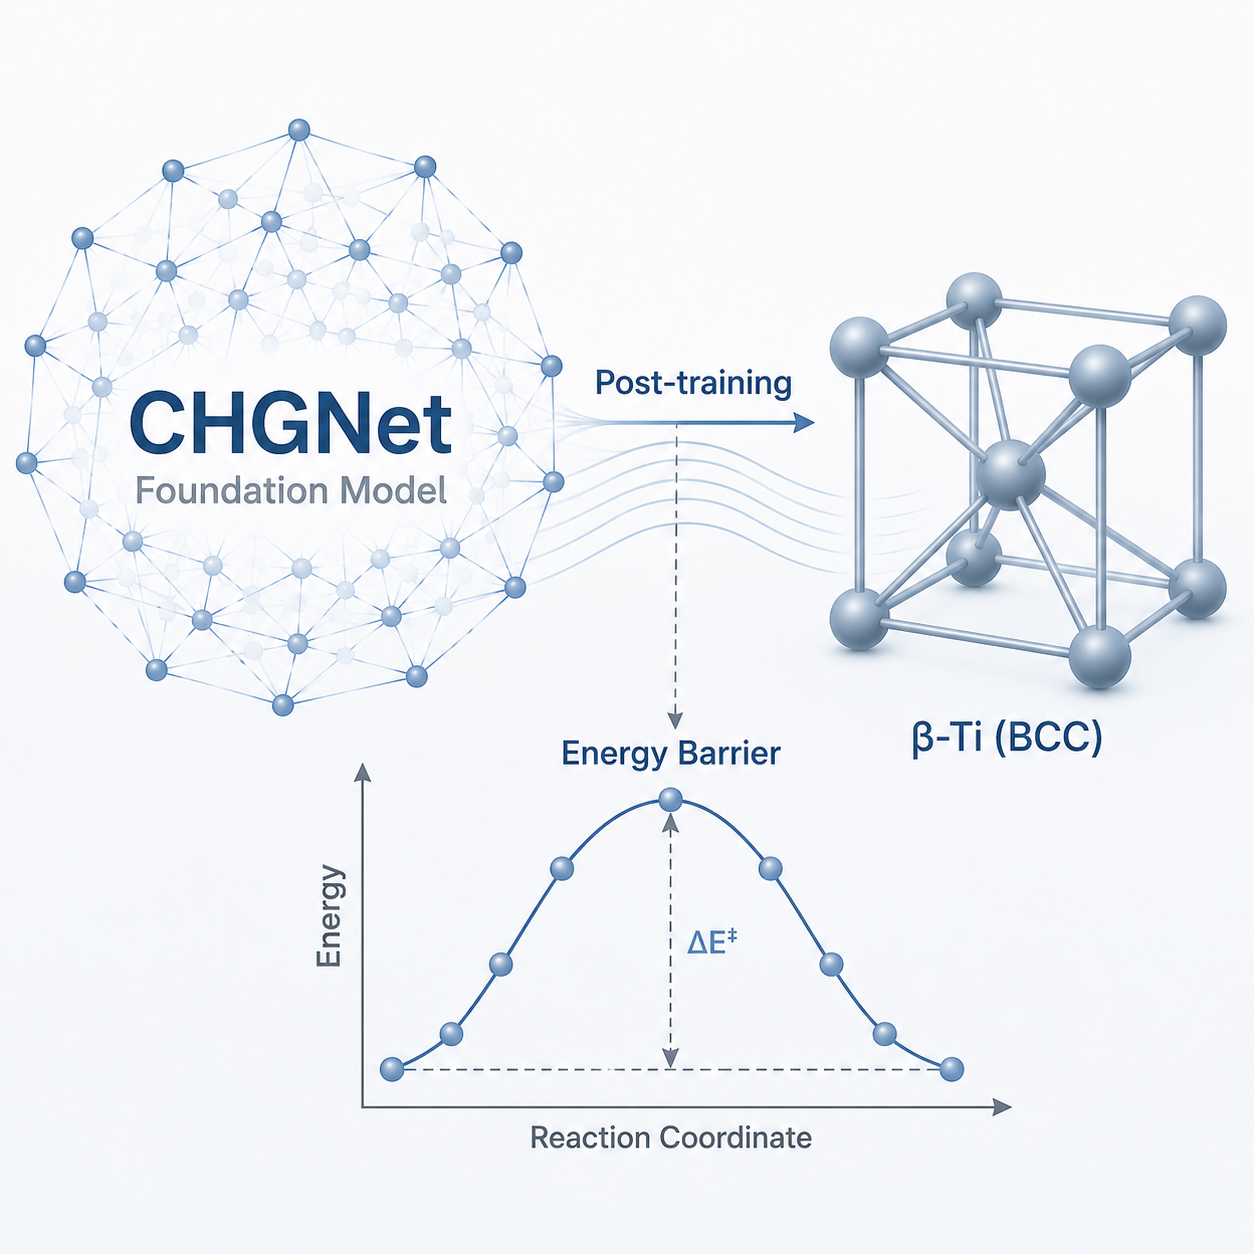
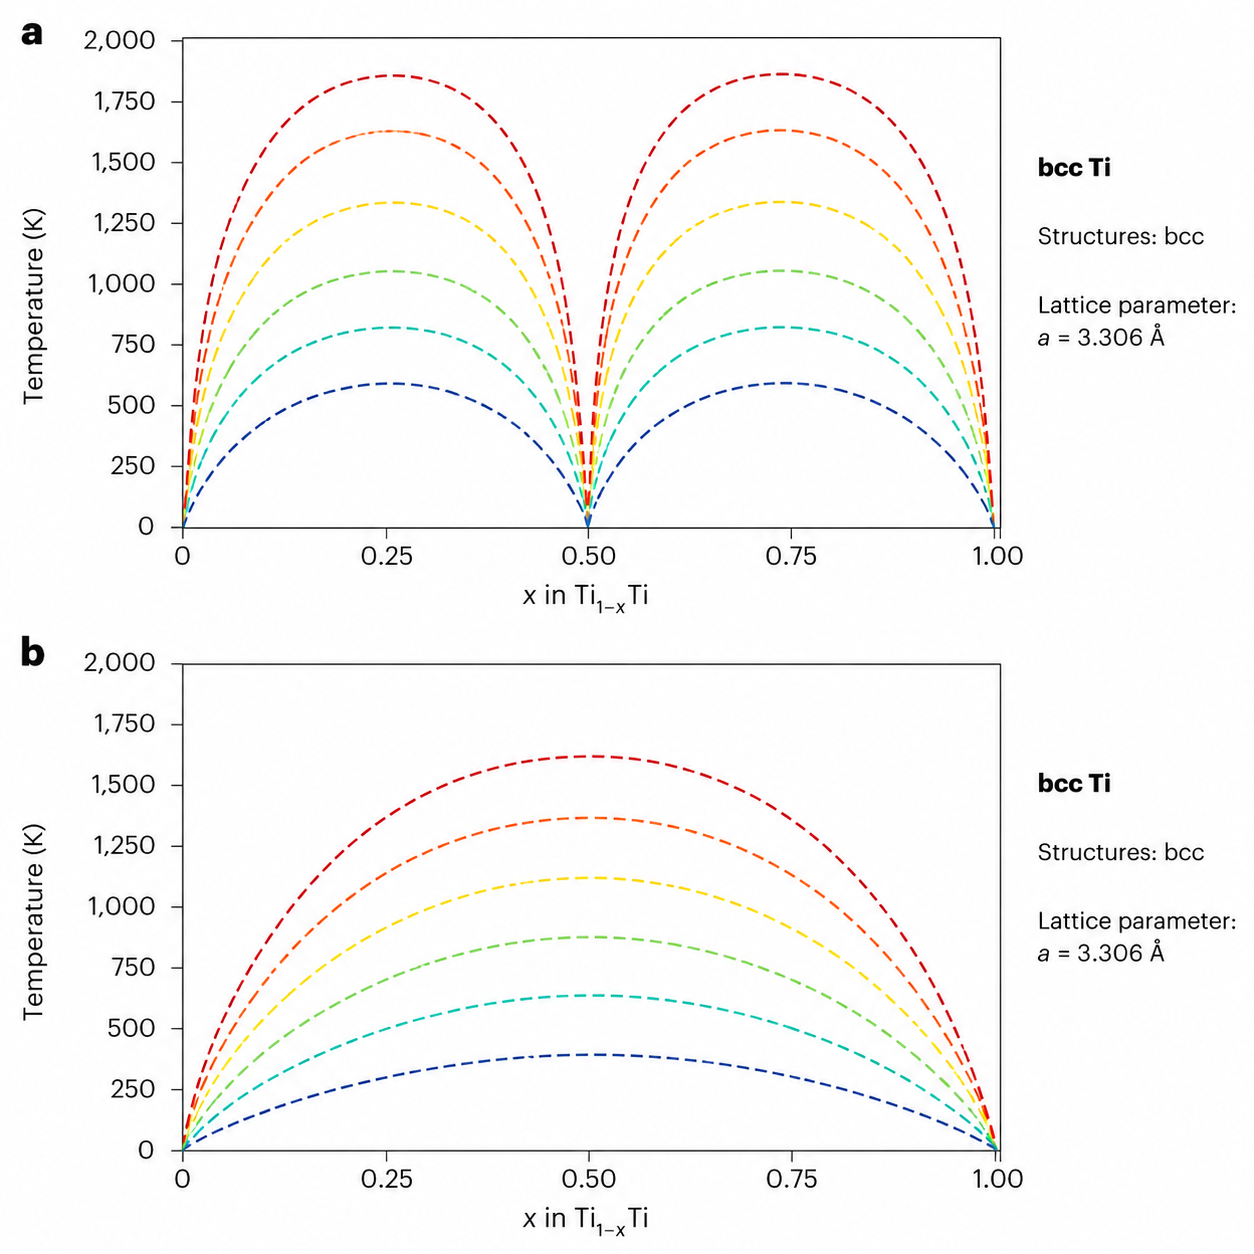
Update portrait to circular shape and refresh image assets

diff --git a/index.html b/index.html
@@ -11,7 +11,7 @@ title: Zifeng Wang
       <div class="flex-shrink-0">
         <img src="{{ '/images/portrait.jpg' | relative_url }}"
              alt="{{ site.name }}"
-             class="w-48 h-48 md:w-56 md:h-56 object-cover">
+             class="w-48 h-48 md:w-56 md:h-56 object-cover rounded-full">
       </div>
 
       <!-- Bio -->
